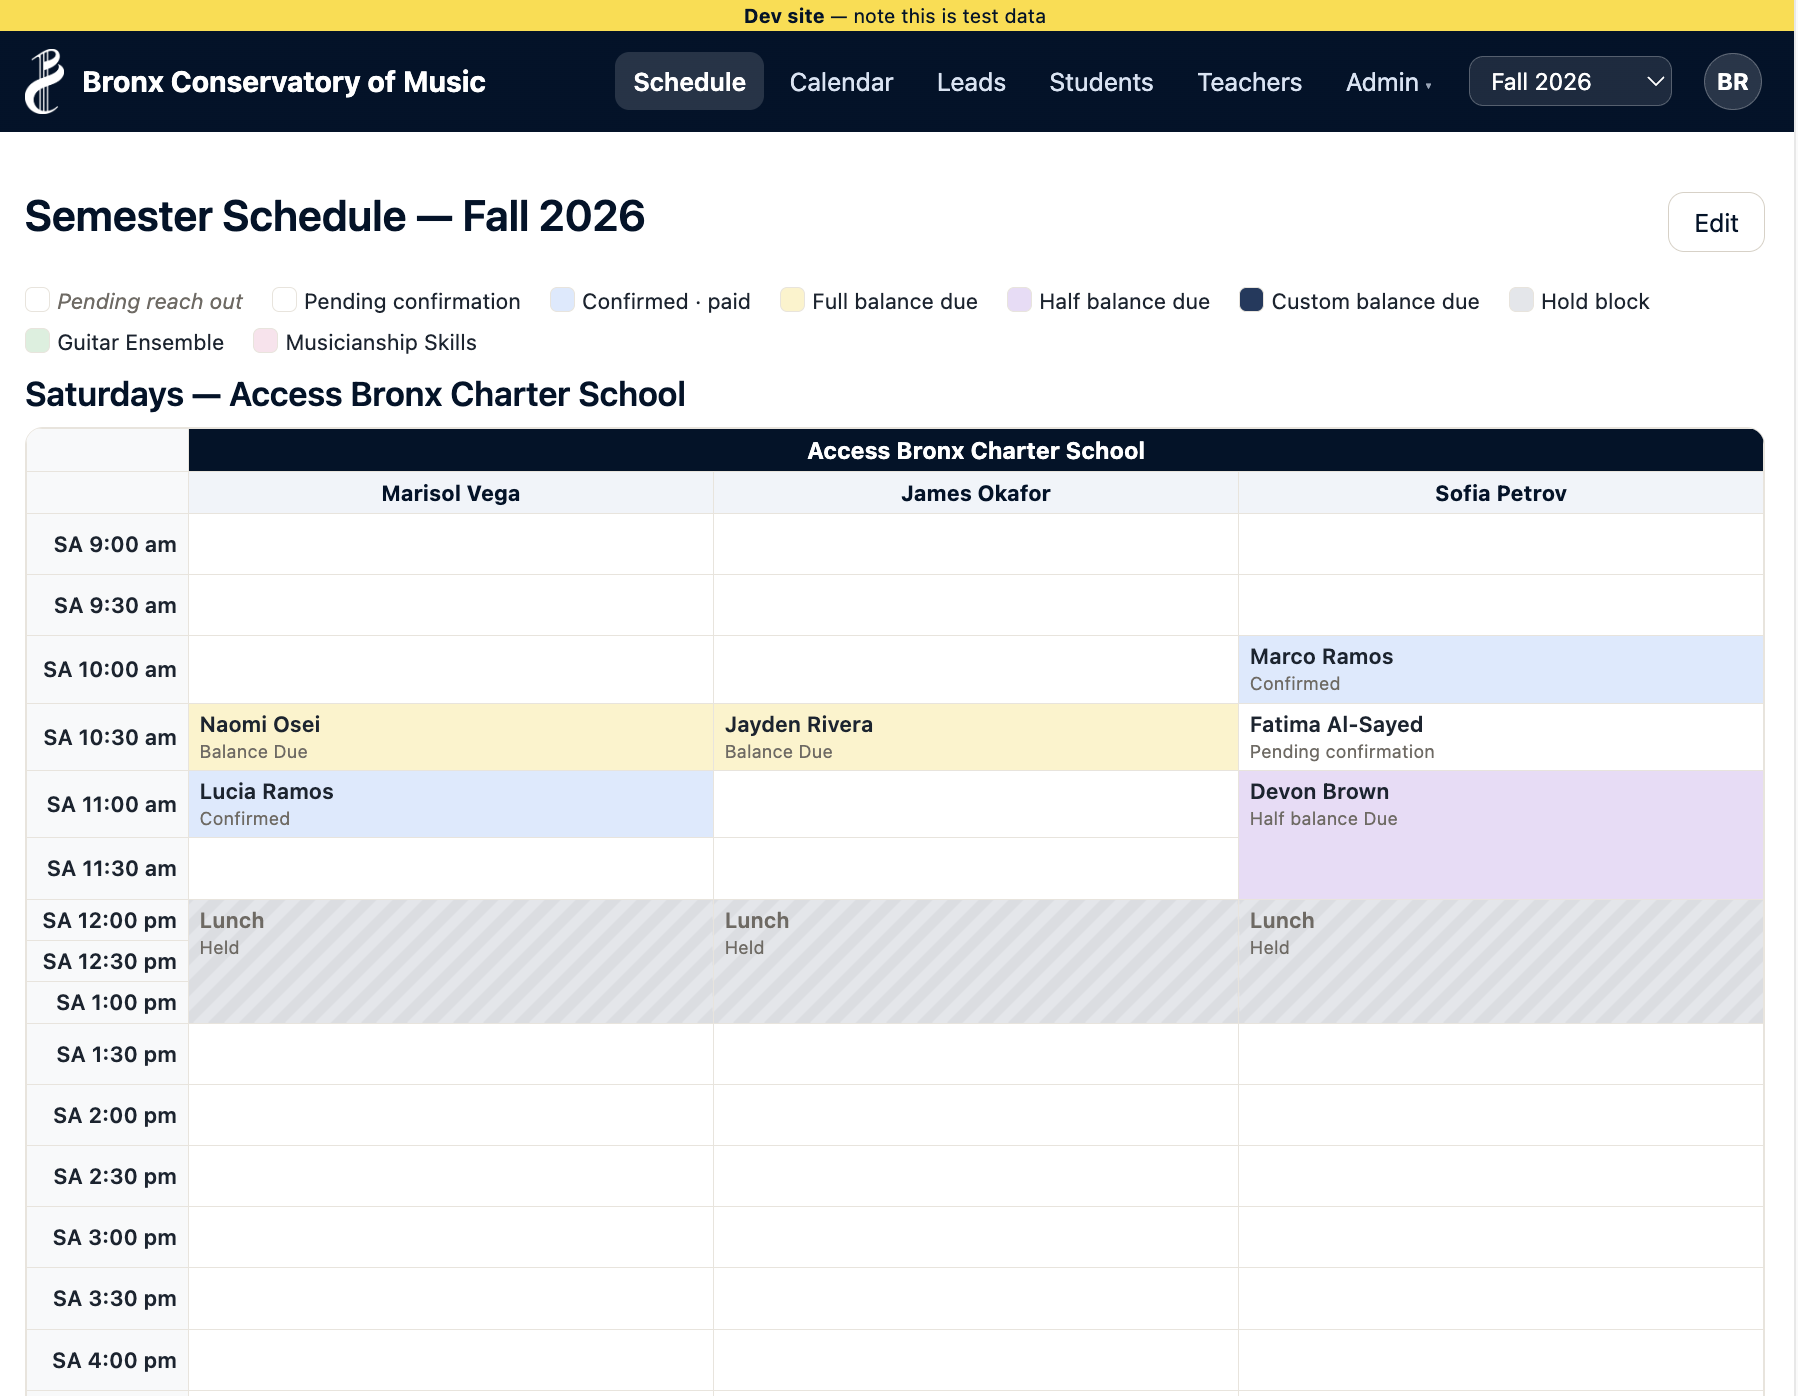
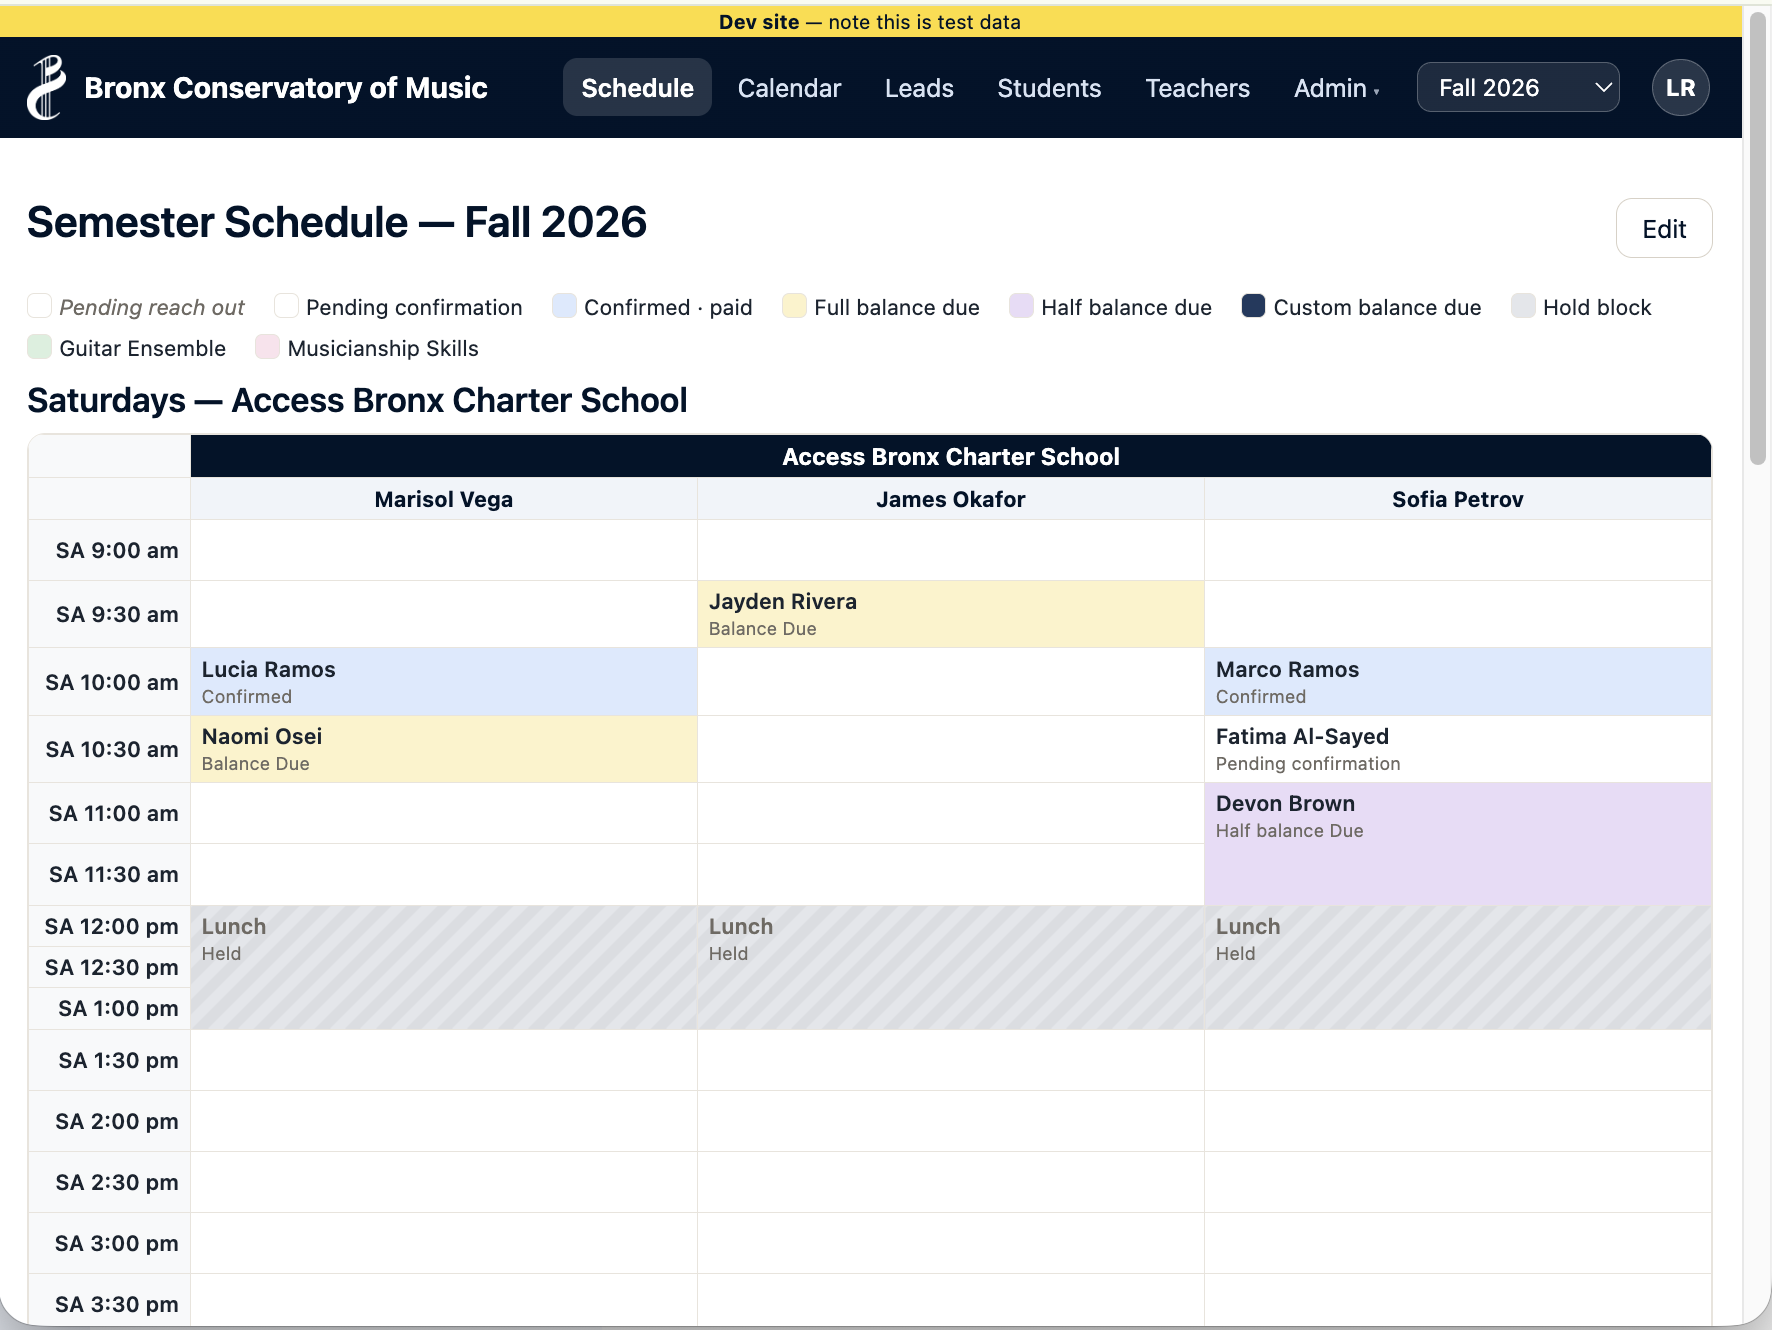
new screenshots for bcm

diff --git a/src/data/techProjects.ts b/src/data/techProjects.ts
@@ -43,7 +43,13 @@ export const techProjects: TechProject[] = [
     name: 'Bronx Conservatory of Music Portal',
     description:
       'This is a non-profit that offers low-cost private music classes to children in the Bronx. They wanted to have a central way to manage enrollment and lesson management so the staff can focus on delivering their program well instead of the significant administration work of tracking student registrations and lesson attendance. Built for 150+ students and 20+ teachers.',
-    screenshots: ['bronx-conservatory-1.png', 'bronx-conservatory-2.png', 'bronx-conservatory-3.png'],
+    screenshots: [
+      'bronx-conservatory-1.png',
+      'bronx-conservatory-2.png',
+      'bronx-conservatory-3.png',
+      'bronx-conservatory-4.png',
+      'bronx-conservatory-5.png',
+    ],
   },
   {
     name: 'Judy Rosenthal Portfolio',
